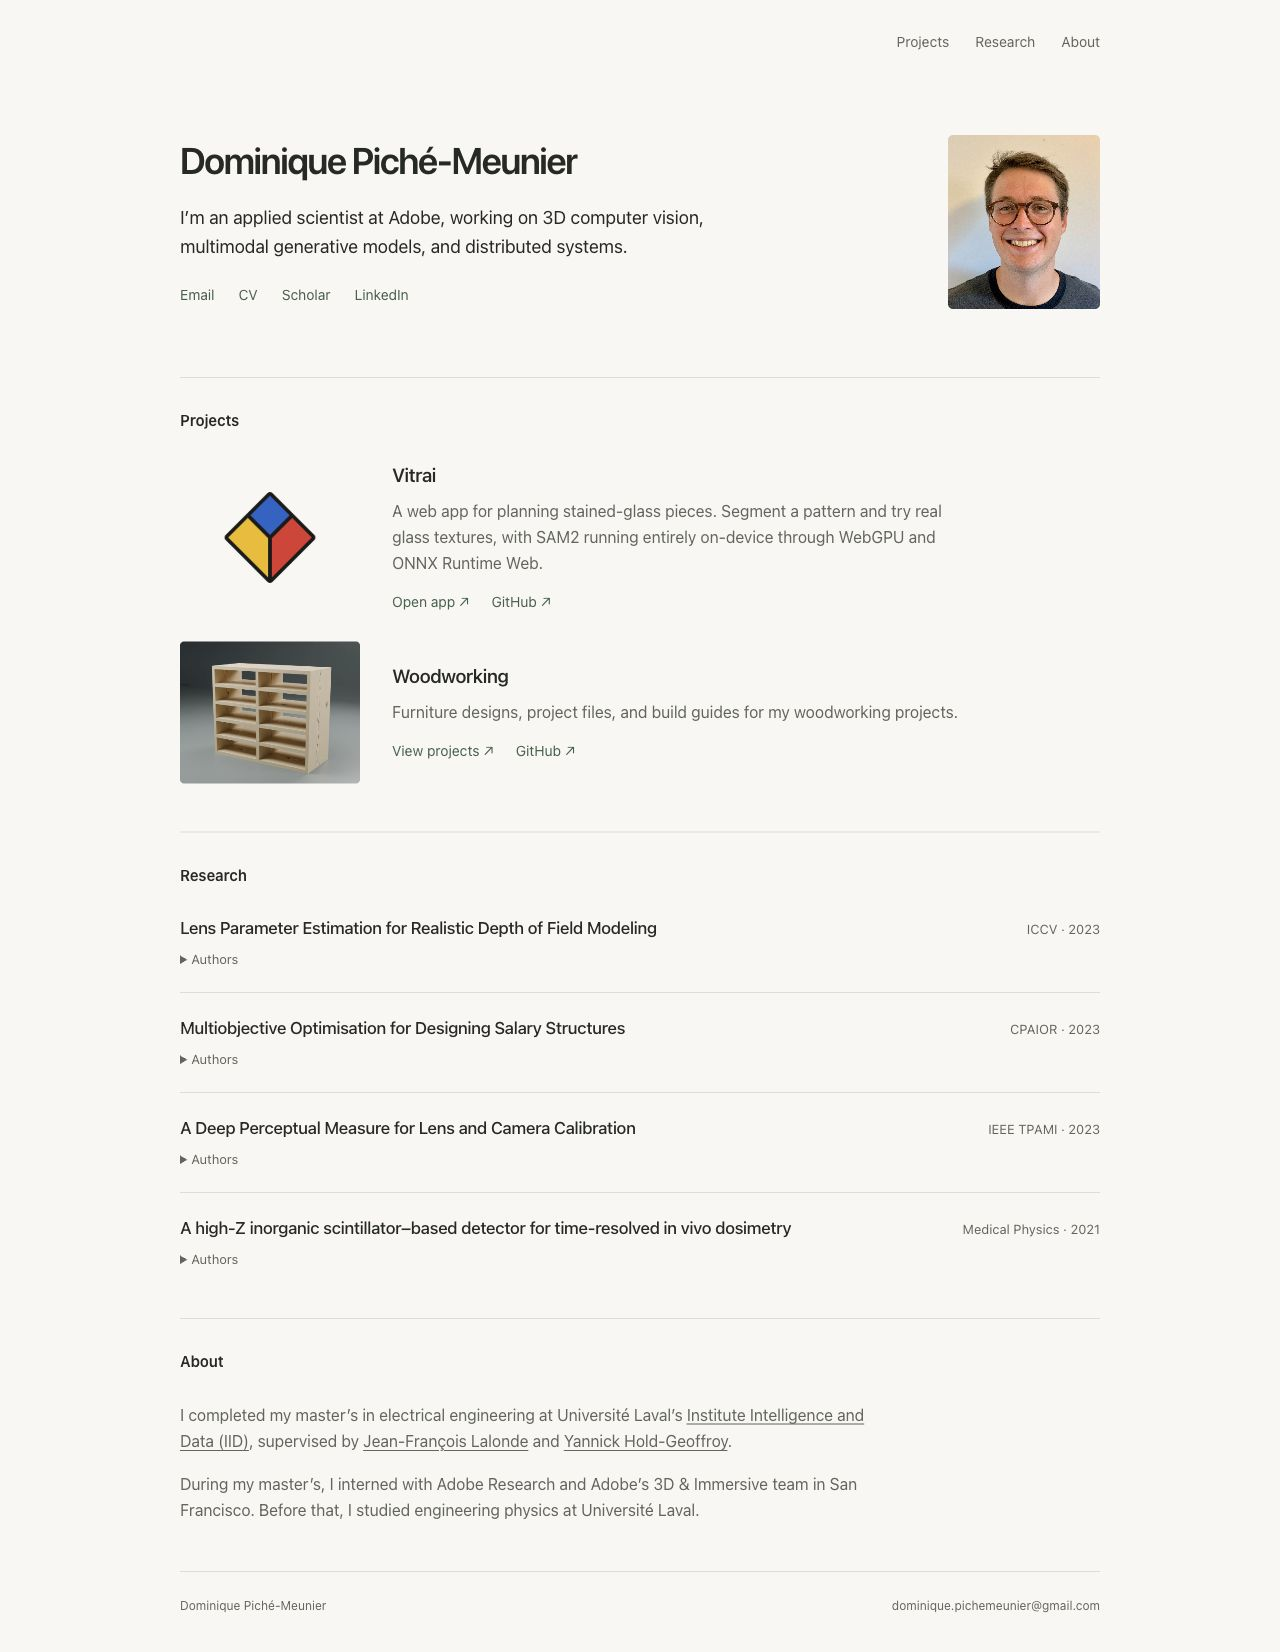
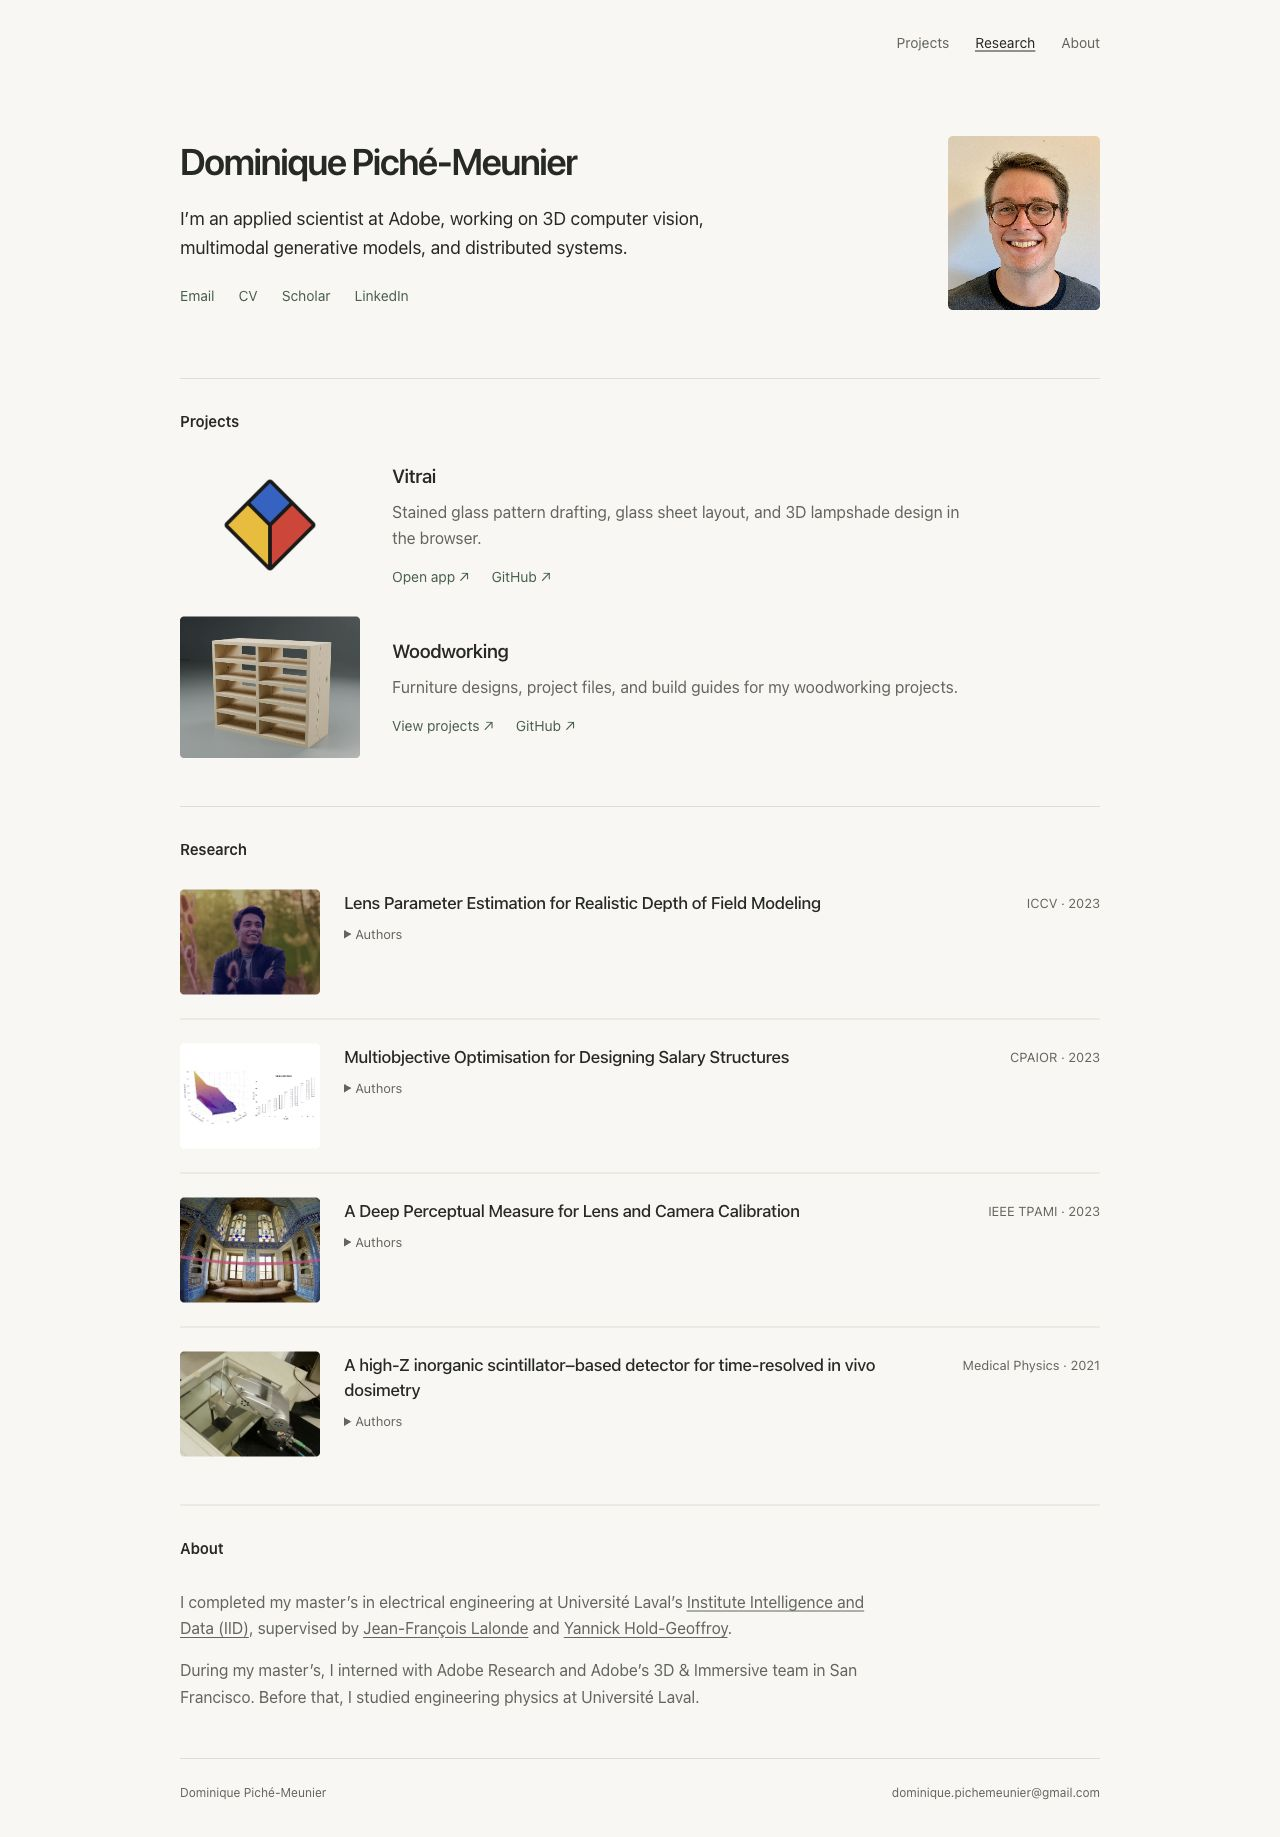
Restore research teaser figures in the simplified layout

diff --git a/index.html b/index.html
@@ -56,7 +56,8 @@
         .project-links a { text-decoration: none; }
         .project-links a:hover { text-decoration: underline; }
         .papers { list-style: none; margin: 0; padding: 0; }
-        .paper { display: grid; grid-template-columns: minmax(0, 1fr) 140px; gap: 32px; padding: 22px 0; border-bottom: 1px solid var(--line); }
+        .paper { display: grid; grid-template-columns: 140px minmax(0, 1fr) 140px; gap: 24px; align-items: start; padding: 24px 0; border-bottom: 1px solid var(--line); }
+        .paper-teaser { display: block; width: 140px; height: auto; border-radius: 4px; }
         .paper:first-child { padding-top: 0; }
         .paper:last-child { border-bottom: 0; padding-bottom: 0; }
         .paper h3 { font-size: 17px; margin: 0 0 8px; font-weight: 500; line-height: 1.5; letter-spacing: -.015em; }
@@ -84,7 +85,8 @@
             .project-visual.woodworking { padding: 0; }
             .project-visual img { width: 96px; height: 96px; }
             .paper { grid-template-columns: 1fr; gap: 6px; padding: 20px 0; }
-            .venue { grid-row: 1; text-align: left; padding: 0; }
+            .paper-teaser { width: 160px; margin-bottom: 8px; }
+            .venue { text-align: left; padding: 0; }
             .paper h3 { font-size: 16px; }
             footer { flex-wrap: wrap; gap: 8px; }
         }
@@ -145,6 +147,7 @@
                 <h2 id="research-heading">Research</h2>
                 <ul class="papers">
                     <li class="paper">
+                        <img class="paper-teaser" src="assets/inversedof_teaser.gif" alt="Depth-of-field modeling research preview" width="320" height="240" loading="lazy">
                         <div>
                             <h3><a href="https://lvsn.github.io/inversedof/">Lens Parameter Estimation for Realistic Depth of Field Modeling</a></h3>
                             <details><summary>Authors</summary><p>Dominique Piché-Meunier, Yannick Hold-Geoffroy, Jianming Zhang, Jean-François Lalonde</p></details>
@@ -152,6 +155,7 @@
                         <div class="venue"><abbr title="International Conference on Computer Vision" style="text-decoration: none;">ICCV</abbr> · 2023</div>
                     </li>
                     <li class="paper">
+                        <img class="paper-teaser" src="assets/pareto_teaser.gif" alt="Salary structure optimization research preview" width="320" height="240" loading="lazy">
                         <div>
                             <h3><a href="https://salarystructureoptimization.github.io/">Multiobjective Optimisation for Designing Salary Structures</a></h3>
                             <details><summary>Authors</summary><p>François Alexandre Tremblay, Dominique Piché-Meunier, Louis Dubois</p></details>
@@ -159,6 +163,7 @@
                         <div class="venue">CPAIOR · 2023</div>
                     </li>
                     <li class="paper">
+                        <img class="paper-teaser" src="assets/deepcalib_teaser.gif" alt="Lens and camera calibration research preview" width="320" height="240" loading="lazy">
                         <div>
                             <h3><a href="https://lvsn.github.io/deepcalib/">A Deep Perceptual Measure for Lens and Camera Calibration</a></h3>
                             <details><summary>Authors</summary><p>Yannick Hold-Geoffroy, Dominique Piché-Meunier, Kalyan Sunkavalli, Jean-Charles Bazin, Francois Rameau, Jean-François Lalonde</p></details>
@@ -166,6 +171,7 @@
                         <div class="venue">IEEE TPAMI · 2023</div>
                     </li>
                     <li class="paper">
+                        <img class="paper-teaser" src="assets/robot_teaser.gif" alt="In vivo dosimetry research preview" width="320" height="240" loading="lazy">
                         <div>
                             <h3><a href="https://aapm.onlinelibrary.wiley.com/doi/abs/10.1002/mp.15257">A high-Z inorganic scintillator–based detector for time-resolved in vivo dosimetry</a></h3>
                             <details><summary>Authors</summary><p>Erik B Jørgensen, et al. (including Dominique Piché-Meunier)</p></details>
